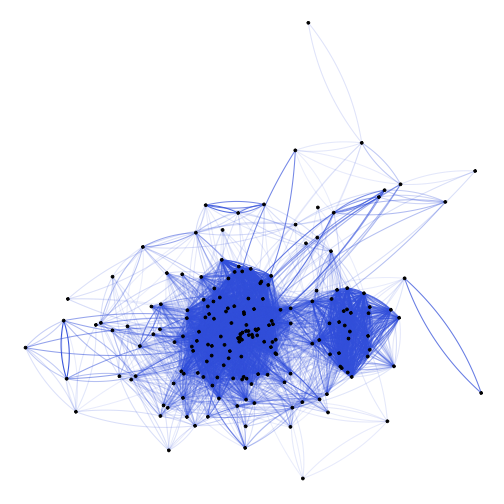
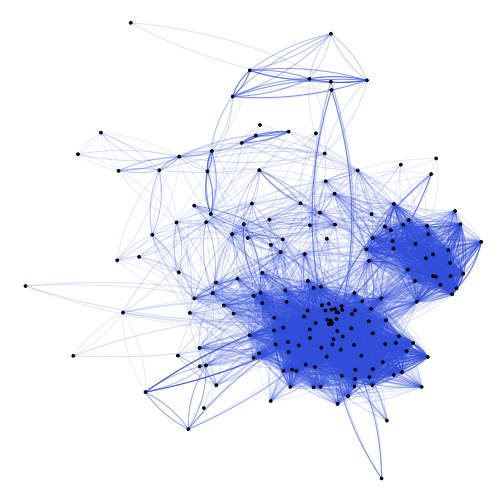
edited 3rd post

diff --git a/_posts/2017-4-27-ngrams_correlation_green_climate_fund.md b/_posts/2017-4-27-ngrams_correlation_green_climate_fund.md
@@ -14,7 +14,7 @@ comments: true
 
 Last time we looked at a [single-word analysis](http://state.gy/r/exploratory_data_analysis_of_board_documents_at_the_green_climate_fund/) of the gcfboardr dataset. However, more interesting avenues for analysis open up when we consider relationships between words, in particular between pairs of words.
 
-In this post, we'll look at bigrams, create some network graphs to plot relationships among many words.
+In this post, we'll look at bigrams and use network graphs to plot relationships among many words.
 
 ***
 
@@ -22,7 +22,7 @@ In this post, we'll look at bigrams, create some network graphs to plot relation
 
 A bigram is a pair of words which occur together in sequence, and a trigram is the same concept extended to word triplets. "N-grams" are a generalization of this concept, although in practice most analyses restrict the "n" to a maximum of three. 
 
-Let's load the dataset.
+Let's load the dataset:
 
 
 {% highlight r %}
@@ -88,18 +88,18 @@ bigrams_united
 
 {% highlight text %}
 ## # A tibble: 1,276,503 × 3
-##                bigram meeting                                                    title
-## *               <chr>  <fctr>                                                   <fctr>
-## 1         board march    B.12 2016 Work Plan of the Board: Proposal from the Co-Chairs
-## 2           march rev    B.12 2016 Work Plan of the Board: Proposal from the Co-Chairs
-## 3          rev songdo    B.12 2016 Work Plan of the Board: Proposal from the Co-Chairs
-## 4      songdo incheon    B.12 2016 Work Plan of the Board: Proposal from the Co-Chairs
-## 5    incheon republic    B.12 2016 Work Plan of the Board: Proposal from the Co-Chairs
-## 6   korea provisional    B.12 2016 Work Plan of the Board: Proposal from the Co-Chairs
-## 7  provisional agenda    B.12 2016 Work Plan of the Board: Proposal from the Co-Chairs
-## 8         agenda item    B.12 2016 Work Plan of the Board: Proposal from the Co-Chairs
-## 9      board proposal    B.12 2016 Work Plan of the Board: Proposal from the Co-Chairs
-## 10     chairs summary    B.12 2016 Work Plan of the Board: Proposal from the Co-Chairs
+##                  bigram meeting                                      title
+## *                 <chr>  <fctr>                                     <fctr>
+## 1      additional rules    B.01 Additional Rules of Procedure of the Board
+## 2             board gcf    B.01 Additional Rules of Procedure of the Board
+## 3        august meeting    B.01 Additional Rules of Procedure of the Board
+## 4          board august    B.01 Additional Rules of Procedure of the Board
+## 5         august geneva    B.01 Additional Rules of Procedure of the Board
+## 6    geneva switzerland    B.01 Additional Rules of Procedure of the Board
+## 7    switzerland agenda    B.01 Additional Rules of Procedure of the Board
+## 8           agenda item    B.01 Additional Rules of Procedure of the Board
+## 9              item gcf    B.01 Additional Rules of Procedure of the Board
+## 10 recommended decision    B.01 Additional Rules of Procedure of the Board
 ## # ... with 1,276,493 more rows
 {% endhighlight %}
 
@@ -124,7 +124,9 @@ plot_bigram_tf_idf <- bigram_tf_idf %>%
   mutate(bigram = factor(bigram, levels = rev(unique(bigram))))
 {% endhighlight %}
 
-Let's plot top bigrams by frequency (tfidf) faceting to select a few meetings:
+Let's plot top bigrams by frequency faceting to select a few meetings:  
+
+
 
 ![center](/figs/2017-4-27-ngrams_correlation_green_climate_fund/faceted_bigram_tfidf-1.png)
 
@@ -152,9 +154,12 @@ Interesting! Risk bigrams in which the word "risk" comes first tend to refer to 
 
 ### Correlation 
 
-Knowing how often words appear together is neat but not very useful because some words, such as "project", appear so often that it's not clear whether a bigram involving them can tell us anything. One example you may have noticed above is "project page" -- it occurs often and it's irrelevant. Instead, we might be more interested in asking how often words appear together relative to how often they appear separately. 
+Knowing how often words appear together is neat but not very useful because some words, such as "project", appear so often that it's not clear whether a bigram involving them can tell us anything. One example you may have noticed above is "project page" -- it occurs often and it is meaningless.
 
-We can check correlation between word pairs using the `pairwise_cor` function from the widyr package:
+Avoiding such problematic words when we look at bigrams involves asking how often words appear together relative to how often they appear separately. 
+
+We can provide an answer by checking correlation between word pairs using the `pairwise_cor` function from the widyr package:
+
 
 {% highlight r %}
 # load widyr
@@ -270,7 +275,7 @@ The other cluster contains bigrams such as:
 * "financial exposure" and
 * "applicant provided".
 
-These are the kind of terms we'd expect to see in a cluster relating to **decisions on accreditation**!
+These are the kind of terms we'd expect to see in a cluster relating to **decisions on accreditation**.
 
 There are also a couple of smaller clusters: one relating to bigrams such as "fiduciary standard" and "funding allocation". Another one contains bigrams such as "climate resilient", "paradigm shift" and "sustainable development". It's a little harder to tell what these clusters represent because we have fewer "edges" to reason with.
 
